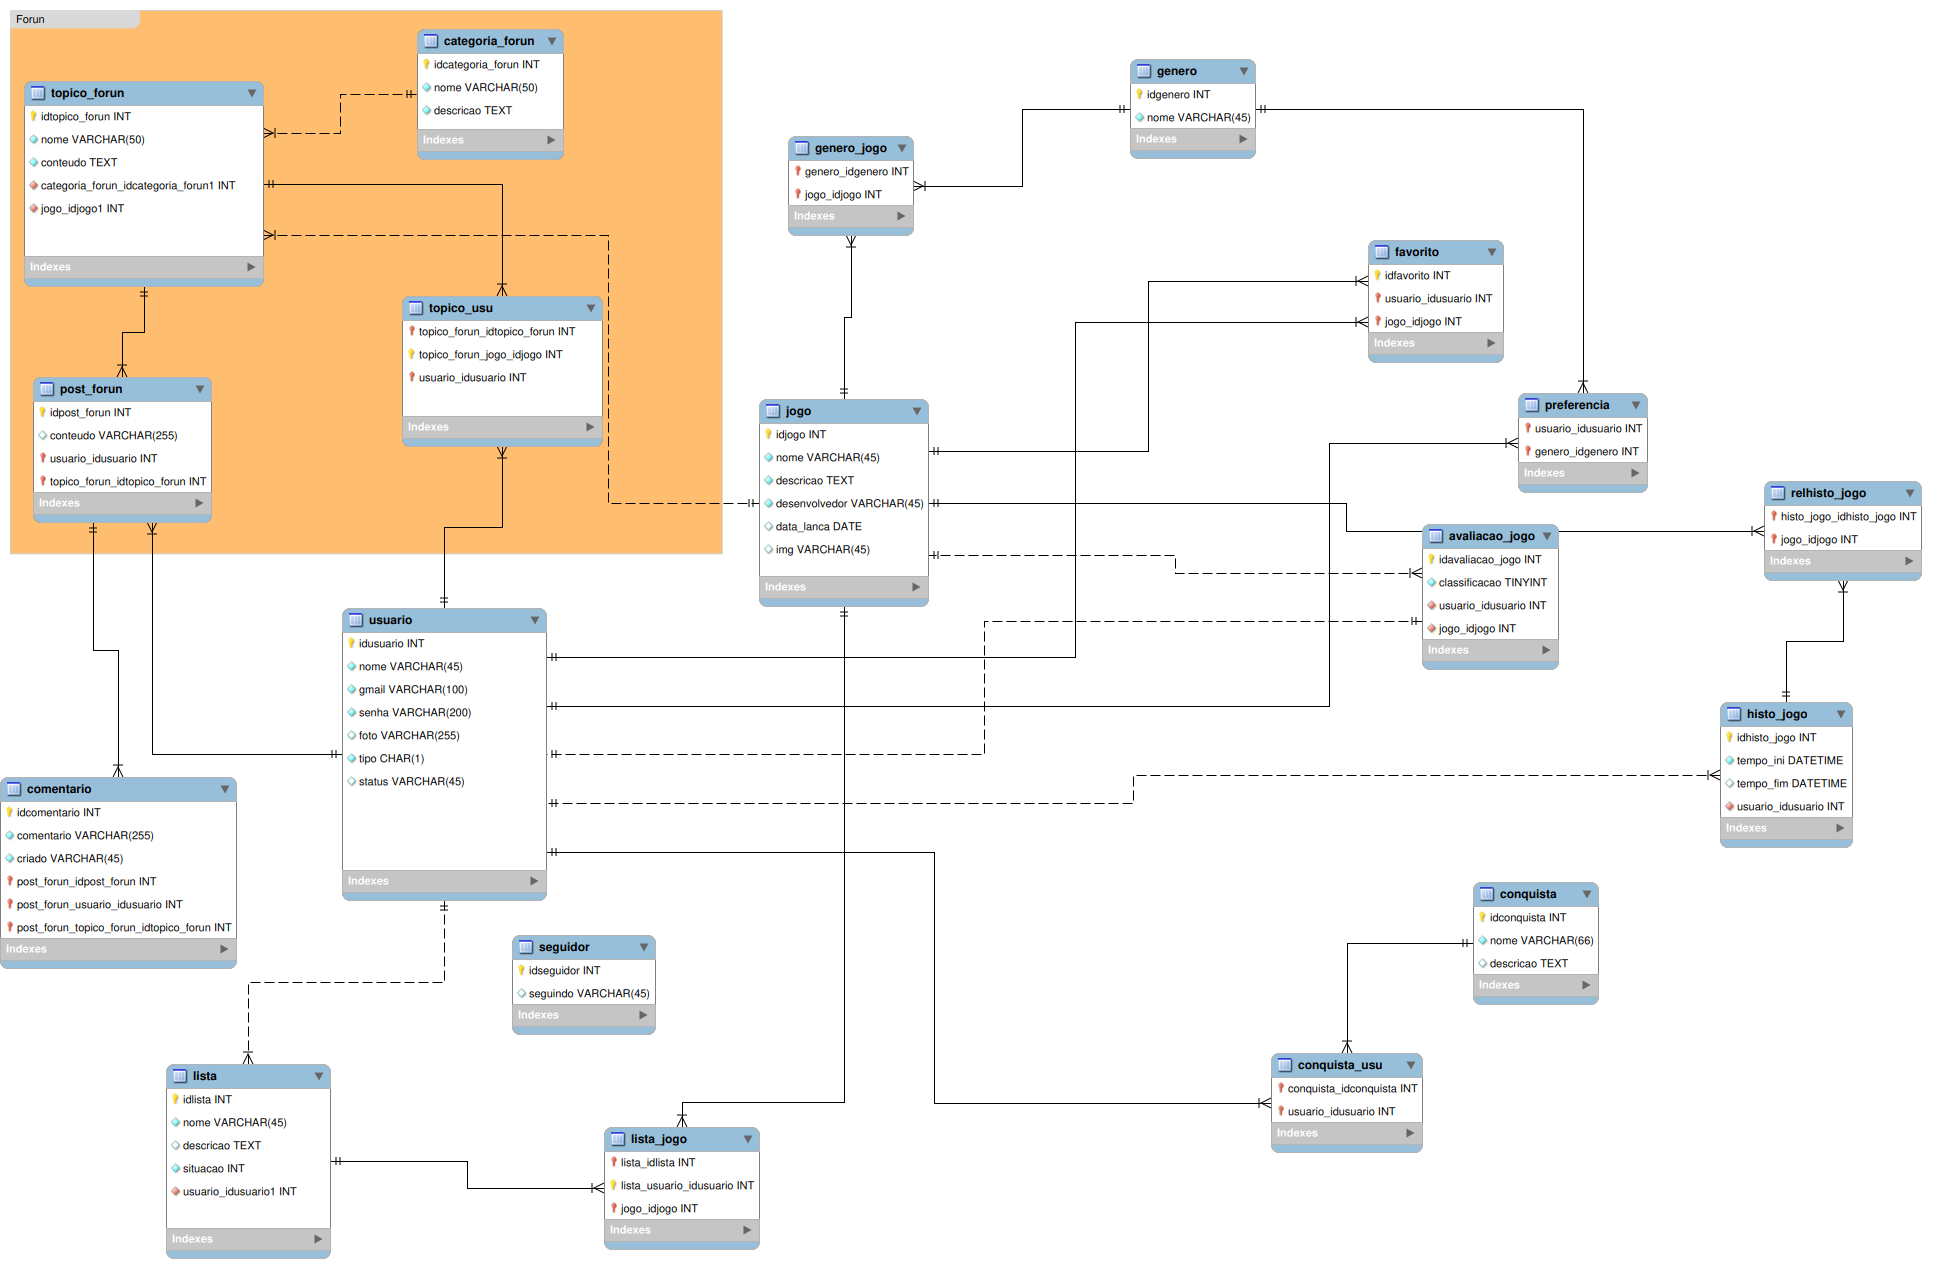
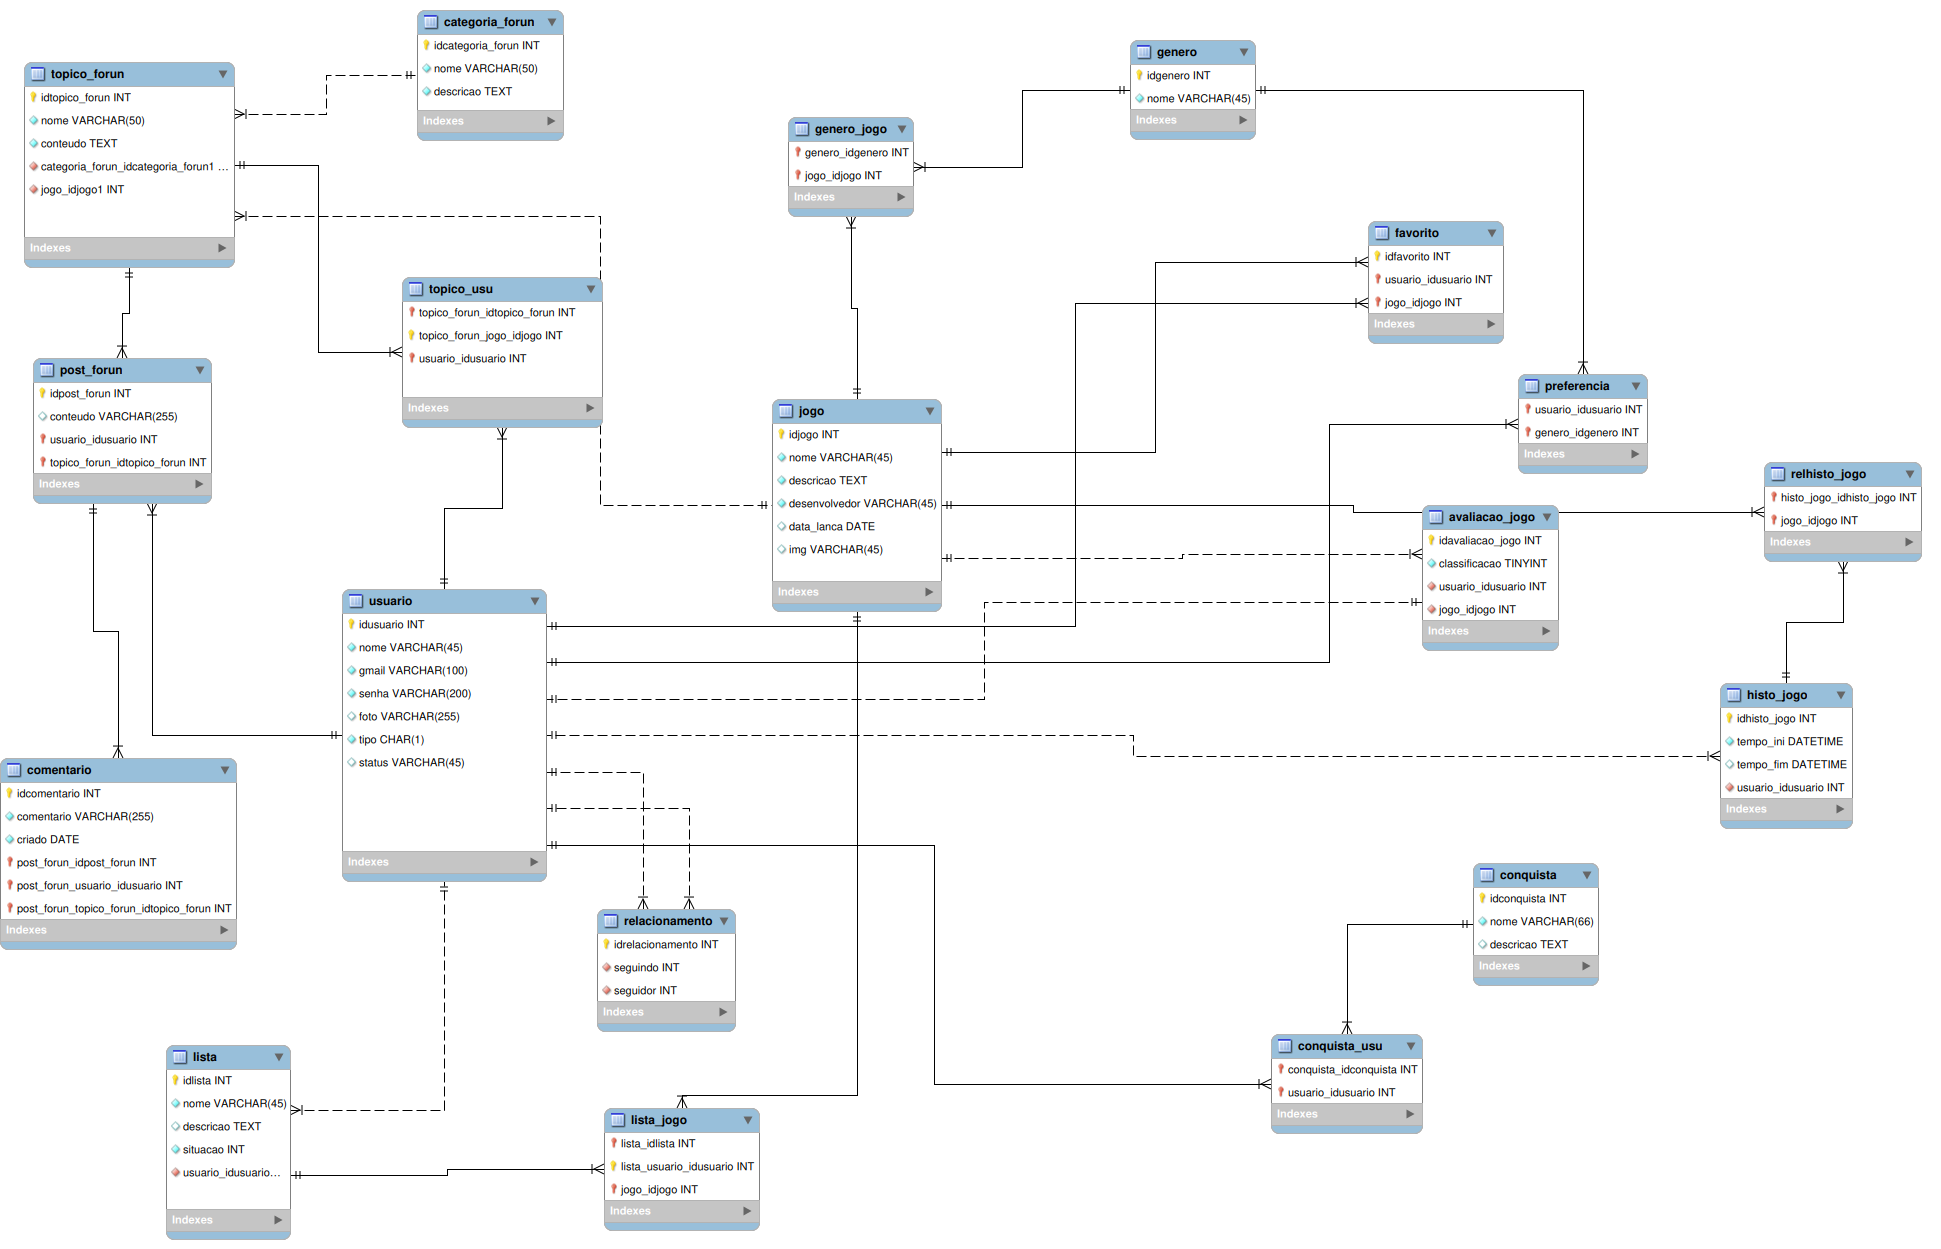
atualizando script

diff --git a/TrabalhoDPSTADW/controle/funcoes.php b/TrabalhoDPSTADW/controle/funcoes.php
@@ -610,5 +610,48 @@ function cadastrarComentario($conexao, $comentario, $criado, $post_forun_idpost_
   
 }
 
+function efetuarRelacionamento($conexao, $idusuario1, $idusario2){
+
+    $sql = "INSERT INTO seguidor (seguindo, seguidor) VALUES (?,?)";
+    $comando = mysqli_prepare($conexao, $sql);
+    
+    mysqli_stmt_bind_param($comando, 'ii',$idusuario1, $idusario2 );
+    
+    $funcionou = mysqli_stmt_execute($comando);
+    mysqli_stmt_close($comando);
+    
+    return $funcionou;
+
+}
+
+function acabarRelacionamento($conexao, $idrelacionamento){
+    $sql = "DELETE * FROM relacionamento WHERE idrelacionamento = ?";
+    $comando =  mysqli_prepare($conexao, $sql);
+    mysqli_stmt_bind_param($comando, 'i', $idlista);
+    
+    $funcionou = mysqli_stmt_execute($comando);
+    mysqli_stmt_close($comando);
+    
+    return $funcionou;
+}
+
+
+
+
+
+
+
+
+
+
+
+
+
+
+
+
+
+
+
 ?>
 

diff --git a/TrabalhoDPSTADW/controle/tests/test_efetuarRelacionamento.php b/TrabalhoDPSTADW/controle/tests/test_efetuarRelacionamento.php
@@ -1,0 +1,24 @@
+<?php
+    require_once "../conexao.php";
+    require_once "../funcoes.php";
+
+    $id1 = 1;
+
+    $id2 = 2;
+
+    $id3 = 3; 
+
+    $id4 = 4;
+
+    $id5 = 5;
+
+    efetuarRelacionamento($conexao, $id1, $id2);
+
+    efetuarRelacionamento($conexao, $id1, $id4);
+
+
+
+
+
+
+?>
